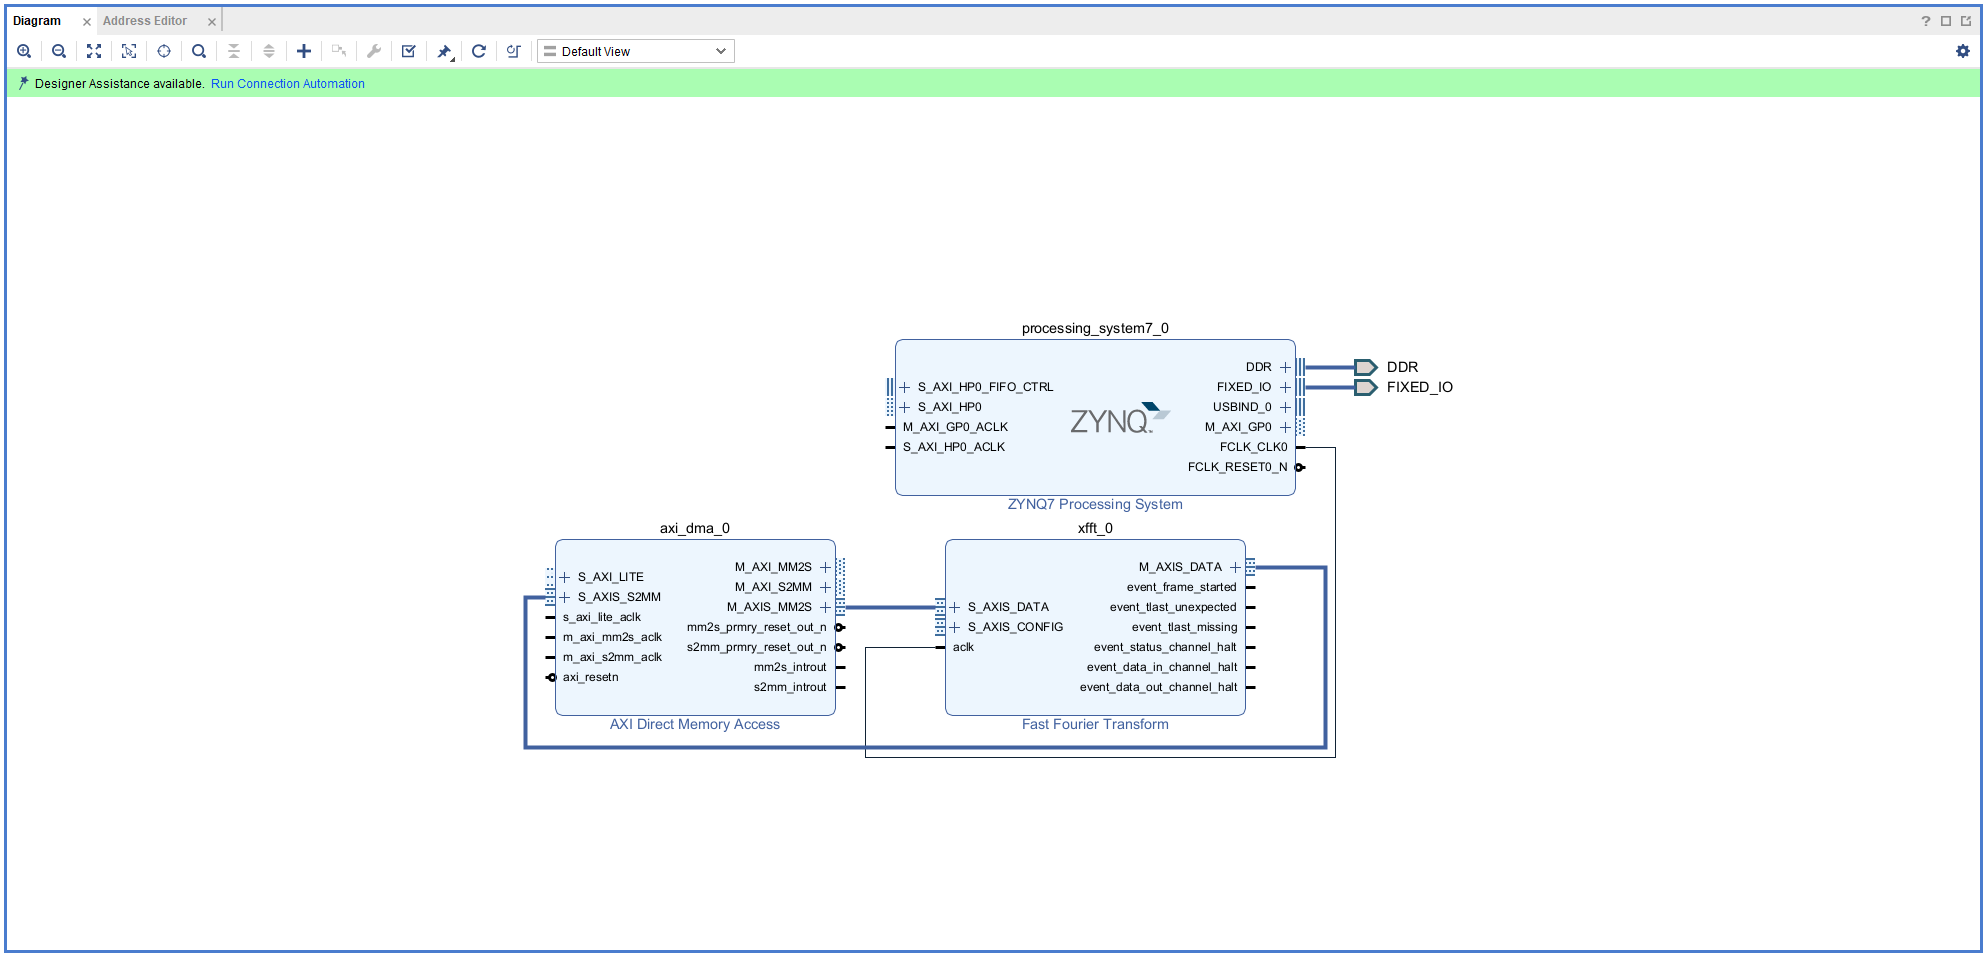
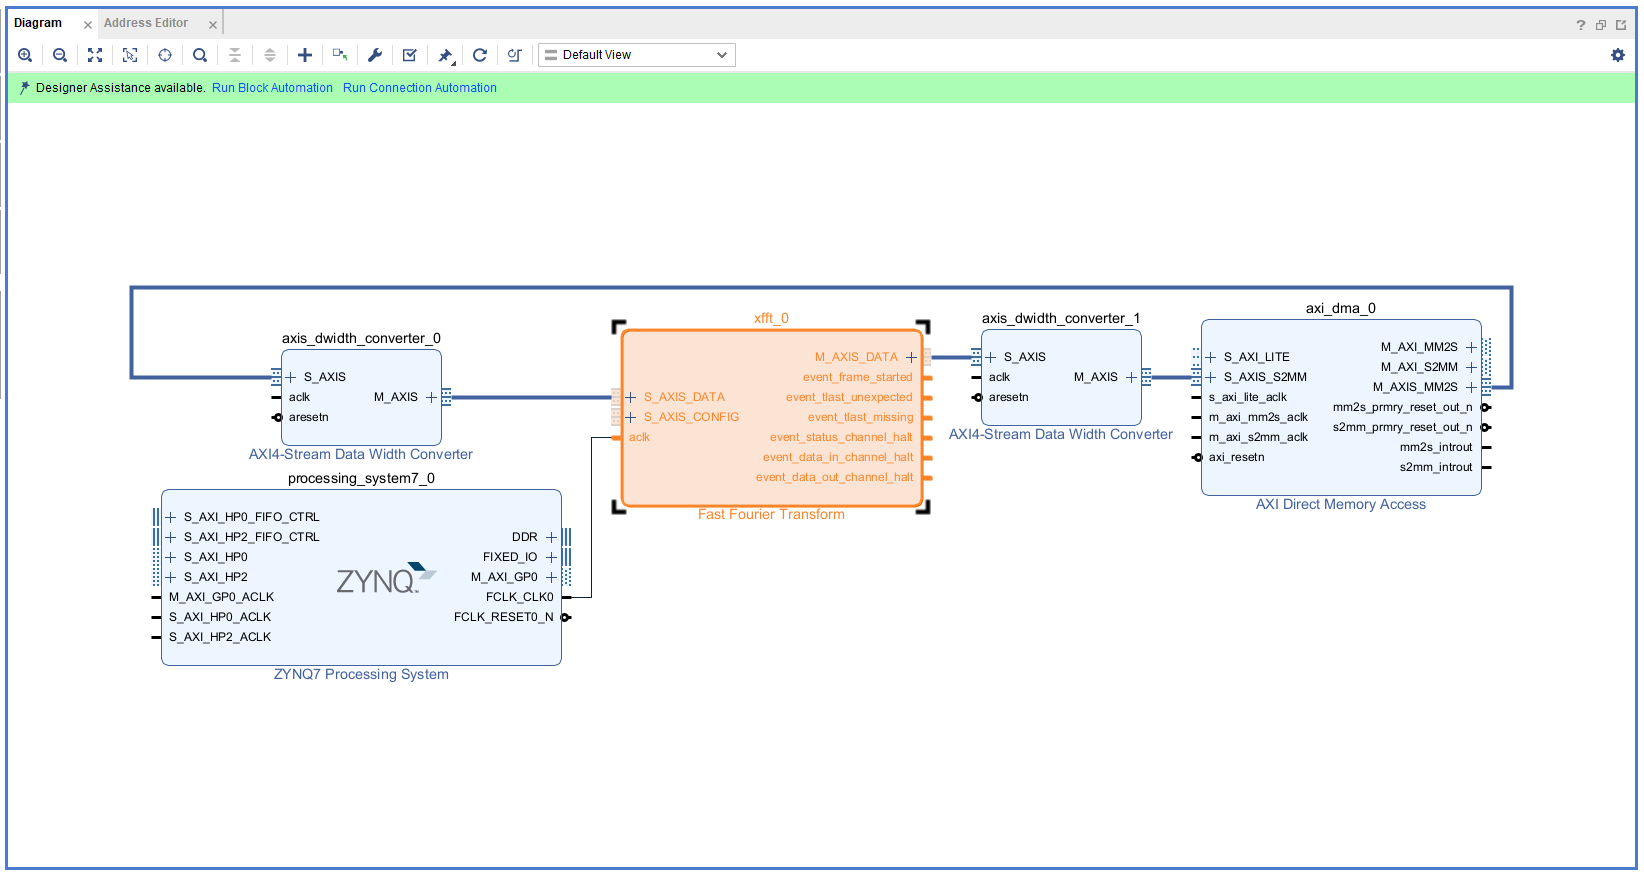
docs: update Part 7-DMA README with additional configuration steps and new images

diff --git a/Hardware-Software-Codesign/Part7-DMA/README.md b/Hardware-Software-Codesign/Part7-DMA/README.md
@@ -75,25 +75,29 @@ DMA 在 Xilinx 提供的 IP 當中有分兩種 Mode，分別是 `Scatter Gather 
 - Allow Unaligned Transfers:  
     可支援非對齊的資料地址
 
-## FFT Module
-
 ## Part 7.1 Vivado Block Design
 
 1. Create a new Vivado Project and Create a new Block Design
-2. 加入 `Zynq7_PS`、`AXI_DMA`、`Fast Fourier Transform`，並且 `Run Block Automation`
+
+2. 加入 `Zynq7_PS`、`AXI_DMA`、`Fast Fourier Transform`、`AXI4-Stream Data Width Converter * 2`，並且 `Run Block Automation`
 
     ![Add_IP](./png/Add_IP.png)
+    ![alt text](image.png)
 
-3. 點開 `Zynq7_PS` 的設定介面，`PS-PL Configuration > HP Slave AXI interface > S AXI HP0 interface` 將其打勾並且將 width 設定成 **32bit** (為配合後續FFT IP)
+3. 點開 `Zynq7_PS` 的設定介面，`PS-PL Configuration > HP Slave AXI interface > S AXI HP0 interface and S AXI HP2 interface` 將兩者都打勾並且將 width 都設定成 **64bit**
 
-    ![PS_Settings](./png/PS_Settings.png)
+    ![HP_port](./png/HP_port.png)
 
     >📌 為什麼這邊要使用 HP(High Performance Port)?  
     >- AXI DMA 需要將資料寫回 DDR（S2MM）與從 DDR 讀取資料（MM2S）  
     >- GP Port（General Purpose）僅適合控制用途，頻寬低，不適合資料搬移  
     >- HP Port 擁有高頻寬，能與 AXI DMA 配合實現高速傳輸
 
-4. 點開 `AXI_DMA` 取消 `Scatter Gather Engine`，並且 `Width of Buffer Length Register` 設定成 **21bits**
+4. 修改 `Zynq7_PS` 的 Clock Configuration，將 `FCLK_CLK0` 設定成 100MHz
+
+    ![Clock_Setting](./png/Clock_Setting.png)
+
+5. 點開 `AXI_DMA` 取消 `Scatter Gather Engine`，並且其餘設定如下圖所示
 
     ![DMA_Settings](./png/DMA_Settings.png)
 
@@ -102,12 +106,12 @@ DMA 在 Xilinx 提供的 IP 當中有分兩種 Mode，分別是 `Scatter Gather 
     >
     > - 長度是以「byte 為單位」來計算
     >
-    > - 寬度設 21，代表你最多可以設定的長度為：2^21 = 2,097,152 bytes(= 2MB)
+    > - 寬度設 16，代表你最多可以設定的長度為：2^16 = 65536 bytes(= 65KB)
     >
     >![MM2S_Length_Reg](./png/MM2S_Length_Reg.png)
     >![S2MM_Length_Reg](./png/S2MM_Length_Reg.png)
 
-5. 點開 `FFT` 設定  
+6. 點開 `FFT` 設定  
 
     - Tramsform Length = 8192 : Transform Length 越大，頻域解析度越高
     - Target Clock Freq = 100
@@ -134,20 +138,36 @@ DMA 在 Xilinx 提供的 IP 當中有分兩種 Mode，分別是 `Scatter Gather 
     >
     > ![Fixed_Point](./png/Fixed_Point.png)
 
-6. 手動接線
-    - `DMA:M_AXIS_MM2S -> FFT:S_AXIS_DATA`
-    - `FFT:M_AXIS_DATA -> DMA:S_AXIS_S2MM`
-    - `FFT:aclk -> ZYNQ7_PS:FCLK_CLK0`
+7. 修改 `AXI4-Stream Data Width Converter` 設定如下圖
+
+    axis_dwidth_converter_0:
+
+    ![Width_Converter_0](./png/Width_Converter_0.png)
+
+    axis_dwidth_converter_1:
+
+    ![Width_Converter_1](./png/Width_Converter_1.png)
+
+8. 手動接線
+    - axis_dwidth_converter_0: M_AXIS -> FFT: S_AXIS_DATA
+
+    - DMA: M_AXIS_MM2S -> axis_dwidth_converter_0: S_AXIS
+
+    - axis_dwidth_converter_1: M_AXIS -> DMA: S_AXIS_S2MM
+
+    - FFT: M_AXIS_DATA -> axis_dwidth_converter_1: S_AXIS
+
+    - FFT: aclk -> ZYNQ7_PS: FCLK_CLK0
 
     ![DMA_to_FFT](./png/DMA_to_FFT.png)
 
-7. `Run Connection Automation 兩次`，最後 Block Design 將如下方所示
+9. `Run Connection Automation 兩次`，最後 Block Design 將如下方所示
 
     ![Final_BD](./png/Final_BD.png)
 
-8. Create HDL Wrapper
+10. Create HDL Wrapper
 
-9. Generate Bitstream 並 Export Hardware Bitstream
+11. Generate Bitstream 並 Export Hardware Bitstream
 
 > 📌 Address Editor  
 > 在 PYNQ-Z2 的 CPU 所使用的記憶體區間即為 `0x1000_0000 ~ 0x1FFF_FFFF (512MB)`，因此 DMA 所連接的 HP Port 必須 Memory Map 到該記憶體區段，在 Vivado 2023.2 的版本會自動幫你分配到該區段

diff --git a/Hardware-Software-Codesign/Part2-AXI-GPIO/README.md b/Hardware-Software-Codesign/Part2-AXI-GPIO/README.md
@@ -180,7 +180,7 @@ set_property BOARD_PART_PIN {sws_2bits_tri_i_1} [get_ports gpio_io_i[1]]
 
 ## Additional  
 
-[Extra1-Vitis-Change-xsa](../Extra1-Vitis-Change-xsa/)
+[Extra1-Vitis-Change-xsa-and-Update-Bitstream](../Extra1-Vitis-Change-xsa-and-Update-Bitstream/)
 
 [Extra2-AXI-Mapping](../Extra2-AXI-Mapping/)
 
